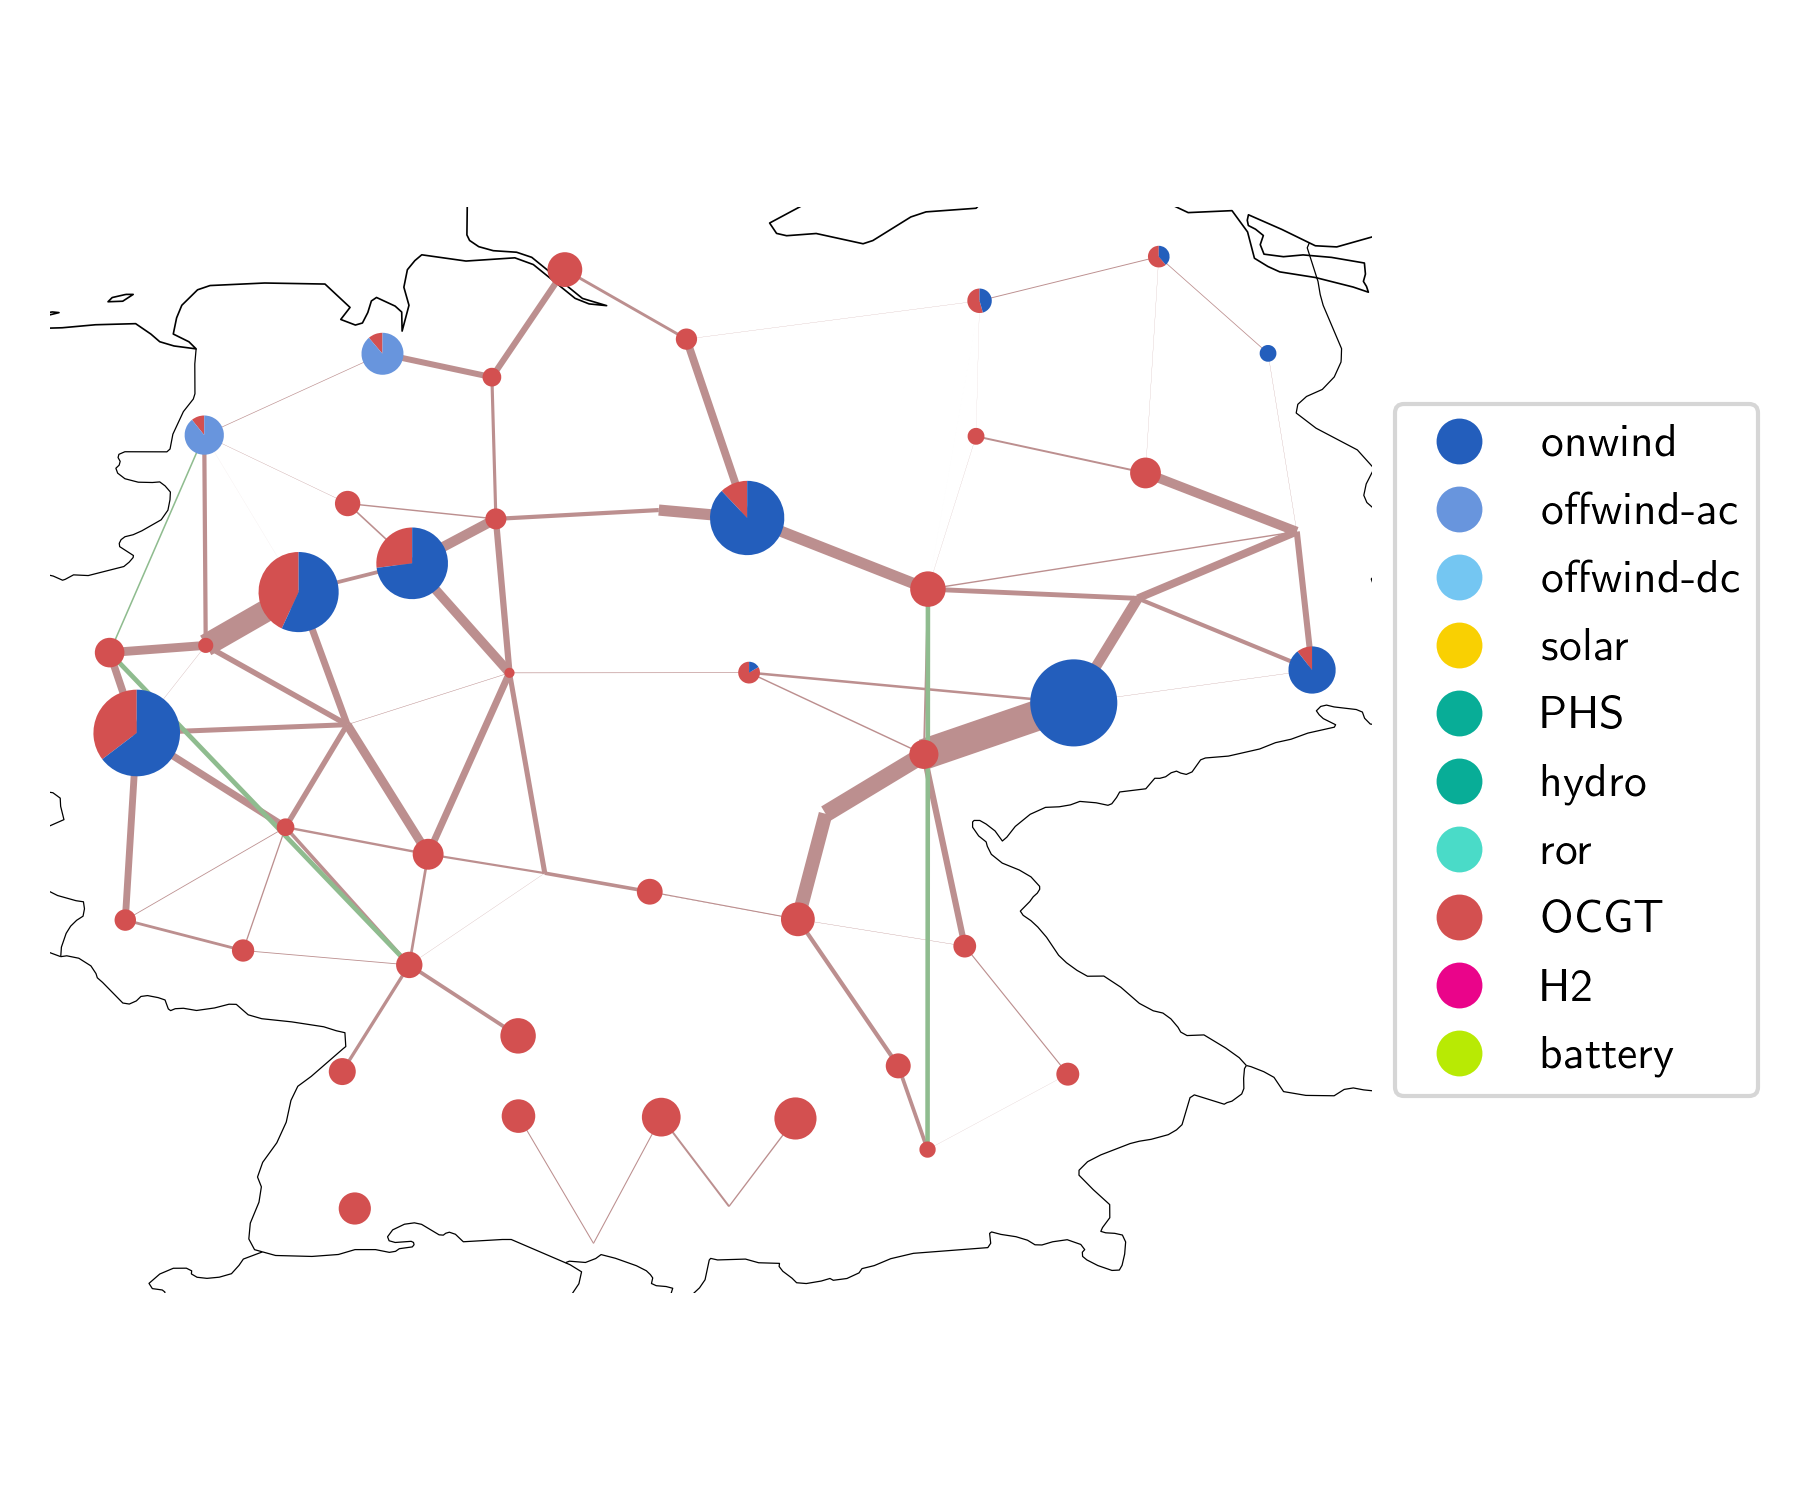
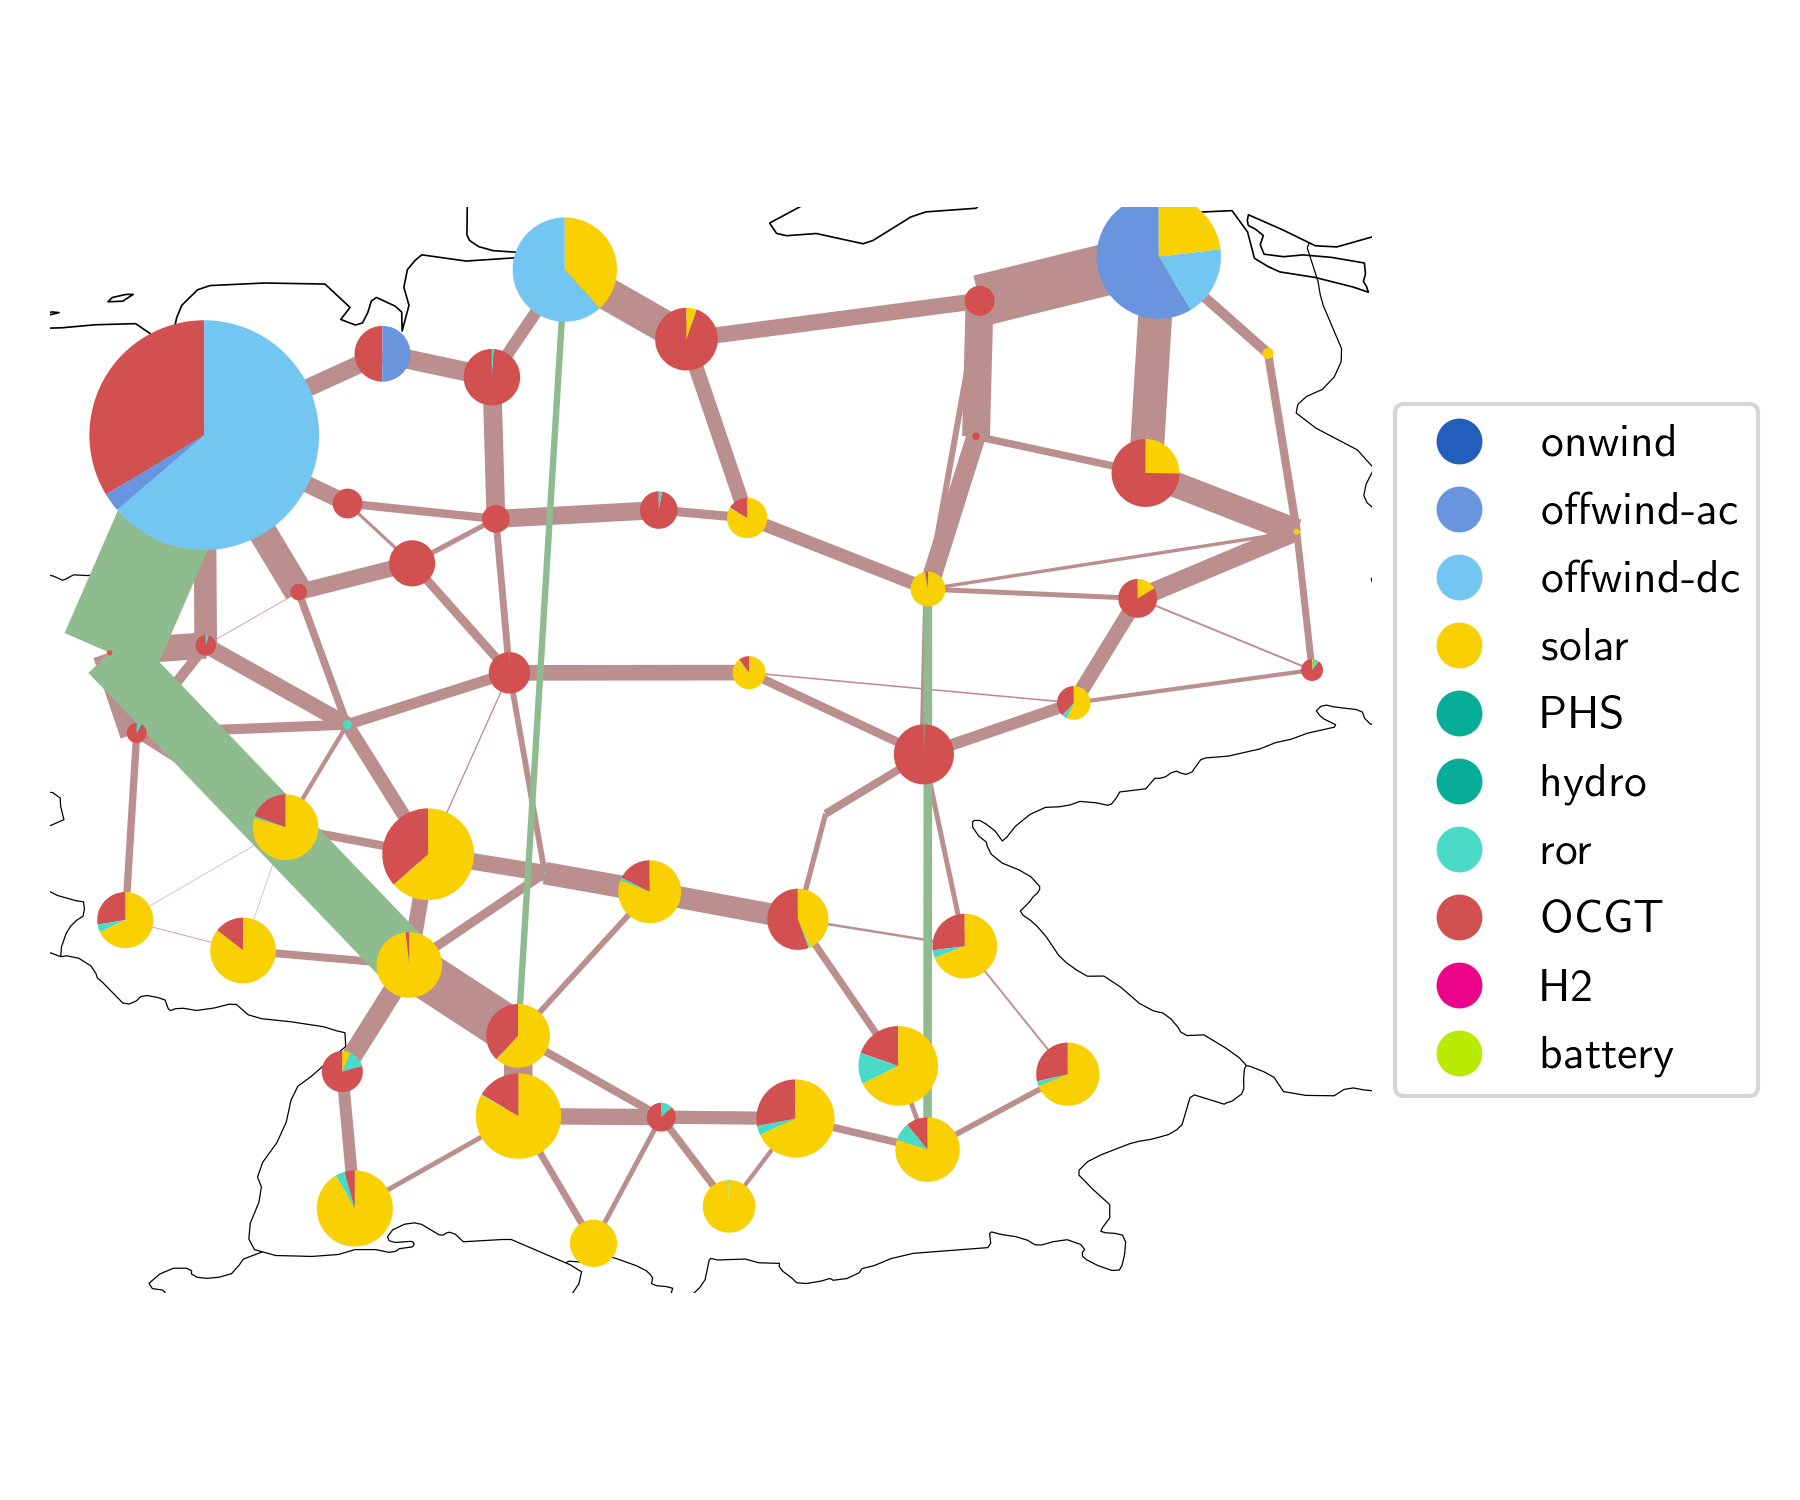
adjust network for analysis

diff --git a/code/dist_cost_large.py b/code/dist_cost_large.py
@@ -15,23 +15,7 @@ from config import to_symbol, color, to_total_symbol
 
 plt.rc("text", usetex=True)
 
-
-n = pypsa.Network("../elec_s_50_ec_lvopt_Co2L-3H.nc")
-n.calculate_dependent_values()
-n.snapshot_weightings[:] = 1
-n.generators["p_nom_extendable"] = True
-n.lines["s_nom_min"] = 0
-# n.lines['s_nom_max'] = 6000
-# n.generators['p_nom_max'] = np.inf
-n.mremove("StorageUnit", n.storage_units.index)
-# n.mremove("Link", n.links.index)
-n.mremove("Line", n.lines.query("x_pu == inf").index)
-n.remove("Bus", "DE0 0")
-
-T = 10
-n.set_snapshots(n.snapshots[:T])
-n.global_constraints.loc["CO2Limit", "constant"] *= T / 8700
-n.lopf(pyomo=False, keep_shadowprices=True, solver_name="gurobi")
+n = pypsa.Network('../solved_germany_50.nc')
 tag = "_large"
 
 
@@ -74,46 +58,46 @@ fig.savefig(f"../figures/network{tag}.png")
 # %% Allocation plot
 
 
-fig, axes = plt.subplots(3, 1, figsize=(12, 7), sharex=True)
+# fig, axes = plt.subplots(3, 1, figsize=(12, 7), sharex=True)
 
-for sn, ax in zip(n.snapshots, axes.ravel()):
-    ca_df = payments.sel(snapshot=sn, drop=True).to_dataframe()
-    dc_df = dc.sel(snapshot=sn, drop=True).to_dataframe()
-    d = dict(stacked=True, zorder=3, width=0.3, legend=False, ax=ax)
+# for sn, ax in zip(n.snapshots, axes.ravel()):
+#     ca_df = payments.sel(snapshot=sn, drop=True).to_dataframe()
+#     dc_df = dc.sel(snapshot=sn, drop=True).to_dataframe()
+#     d = dict(stacked=True, zorder=3, width=0.3, legend=False, ax=ax)
 
-    ca_df.plot.bar(position=1.1, color=color[ca_df.columns], **d)
-    dc_df.plot.bar(position=0, color=color[dc_df.columns], **d)
+#     ca_df.plot.bar(position=1.1, color=color[ca_df.columns], **d)
+#     dc_df.plot.bar(position=0, color=color[dc_df.columns], **d)
 
-    ax.set_xlim(left=-0.5)
-    ax.ticklabel_format(axis="y", style="sci", scilimits=(5, 2))
-    ax.set_xlabel("")
-    ax.set_title(f"$t = %i$" % (sn.hour + 1))
-#     ax.grid(axis="y", zorder=1, linestyle="dashed")
+#     ax.set_xlim(left=-0.5)
+#     ax.ticklabel_format(axis="y", style="sci", scilimits=(5, 2))
+#     ax.set_xlabel("")
+#     ax.set_title(f"$t = %i$" % (sn.hour + 1))
+# #     ax.grid(axis="y", zorder=1, linestyle="dashed")
 
-handles, labels = ax.get_legend_handles_labels()
-labels = [to_symbol[l] for l in labels]
-fig.legend(
-    handles[:-1],
-    labels[:-1],
-    ncol=4,
-    frameon=False,
-    loc="lower center",
-    bbox_to_anchor=(0.3, 1),
-    fontsize="large",
-    title="Flow Based (left bars)",
-)
-fig.legend(
-    handles[-1:],
-    labels[-1:],
-    ncol=1,
-    frameon=False,
-    loc="lower center",
-    bbox_to_anchor=(0.7, 1),
-    fontsize="large",
-    title="LMP Based (right bars)",
-)
-fig.tight_layout()
-fig.savefig(f"../figures/compare_allocation{tag}.png", bbox_inches="tight")
+# handles, labels = ax.get_legend_handles_labels()
+# labels = [to_symbol[l] for l in labels]
+# fig.legend(
+#     handles[:-1],
+#     labels[:-1],
+#     ncol=4,
+#     frameon=False,
+#     loc="lower center",
+#     bbox_to_anchor=(0.3, 1),
+#     fontsize="large",
+#     title="Flow Based (left bars)",
+# )
+# fig.legend(
+#     handles[-1:],
+#     labels[-1:],
+#     ncol=1,
+#     frameon=False,
+#     loc="lower center",
+#     bbox_to_anchor=(0.7, 1),
+#     fontsize="large",
+#     title="LMP Based (right bars)",
+# )
+# fig.tight_layout()
+# fig.savefig(f"../figures/compare_allocation{tag}.png", bbox_inches="tight")
 
 #%% LMP
 

diff --git a/code/solve_network.py b/code/solve_network.py
@@ -11,14 +11,26 @@ import numpy as np
 
 name = 'elec_s_50_ec_lvopt_Co2L-3H'
 n = pypsa.Network(f"../{name}.nc")
+mu_co2 = 100
+
+
 n.calculate_dependent_values()
+n.generators.p_nom_max.update(n.generators.query('not p_nom_extendable').p_nom)
 n.generators["p_nom_extendable"] = True
 n.lines["s_nom_min"] = 0
-# n.lines['s_nom_max'] = 6000
-# n.generators['p_nom_max'] = np.inf
 n.mremove("StorageUnit", n.storage_units.index)
 n.mremove("Line", n.lines.query("x_pu == inf").index)
 n.remove("Bus", "DE0 0")
+
+em = n.generators.carrier.map(n.carriers.co2_emissions) / \
+        n.generators.efficiency
+n.global_constraints = n.global_constraints.drop('CO2Limit')
+n.generators['marginal_cost'] += em * mu_co2
+
+
 n.lopf(pyomo=False, keep_shadowprices=True, solver_name="gurobi",
        solver_options={'crossover': 0, 'method': 2})
-n.to_netcdf('solved_germany_50.nc')
+
+# reinsert mu
+n.global_constraints.at['CO2Limit', 'mu'] = mu_co2
+n.export_to_netcdf('../solved_germany_50.nc')
